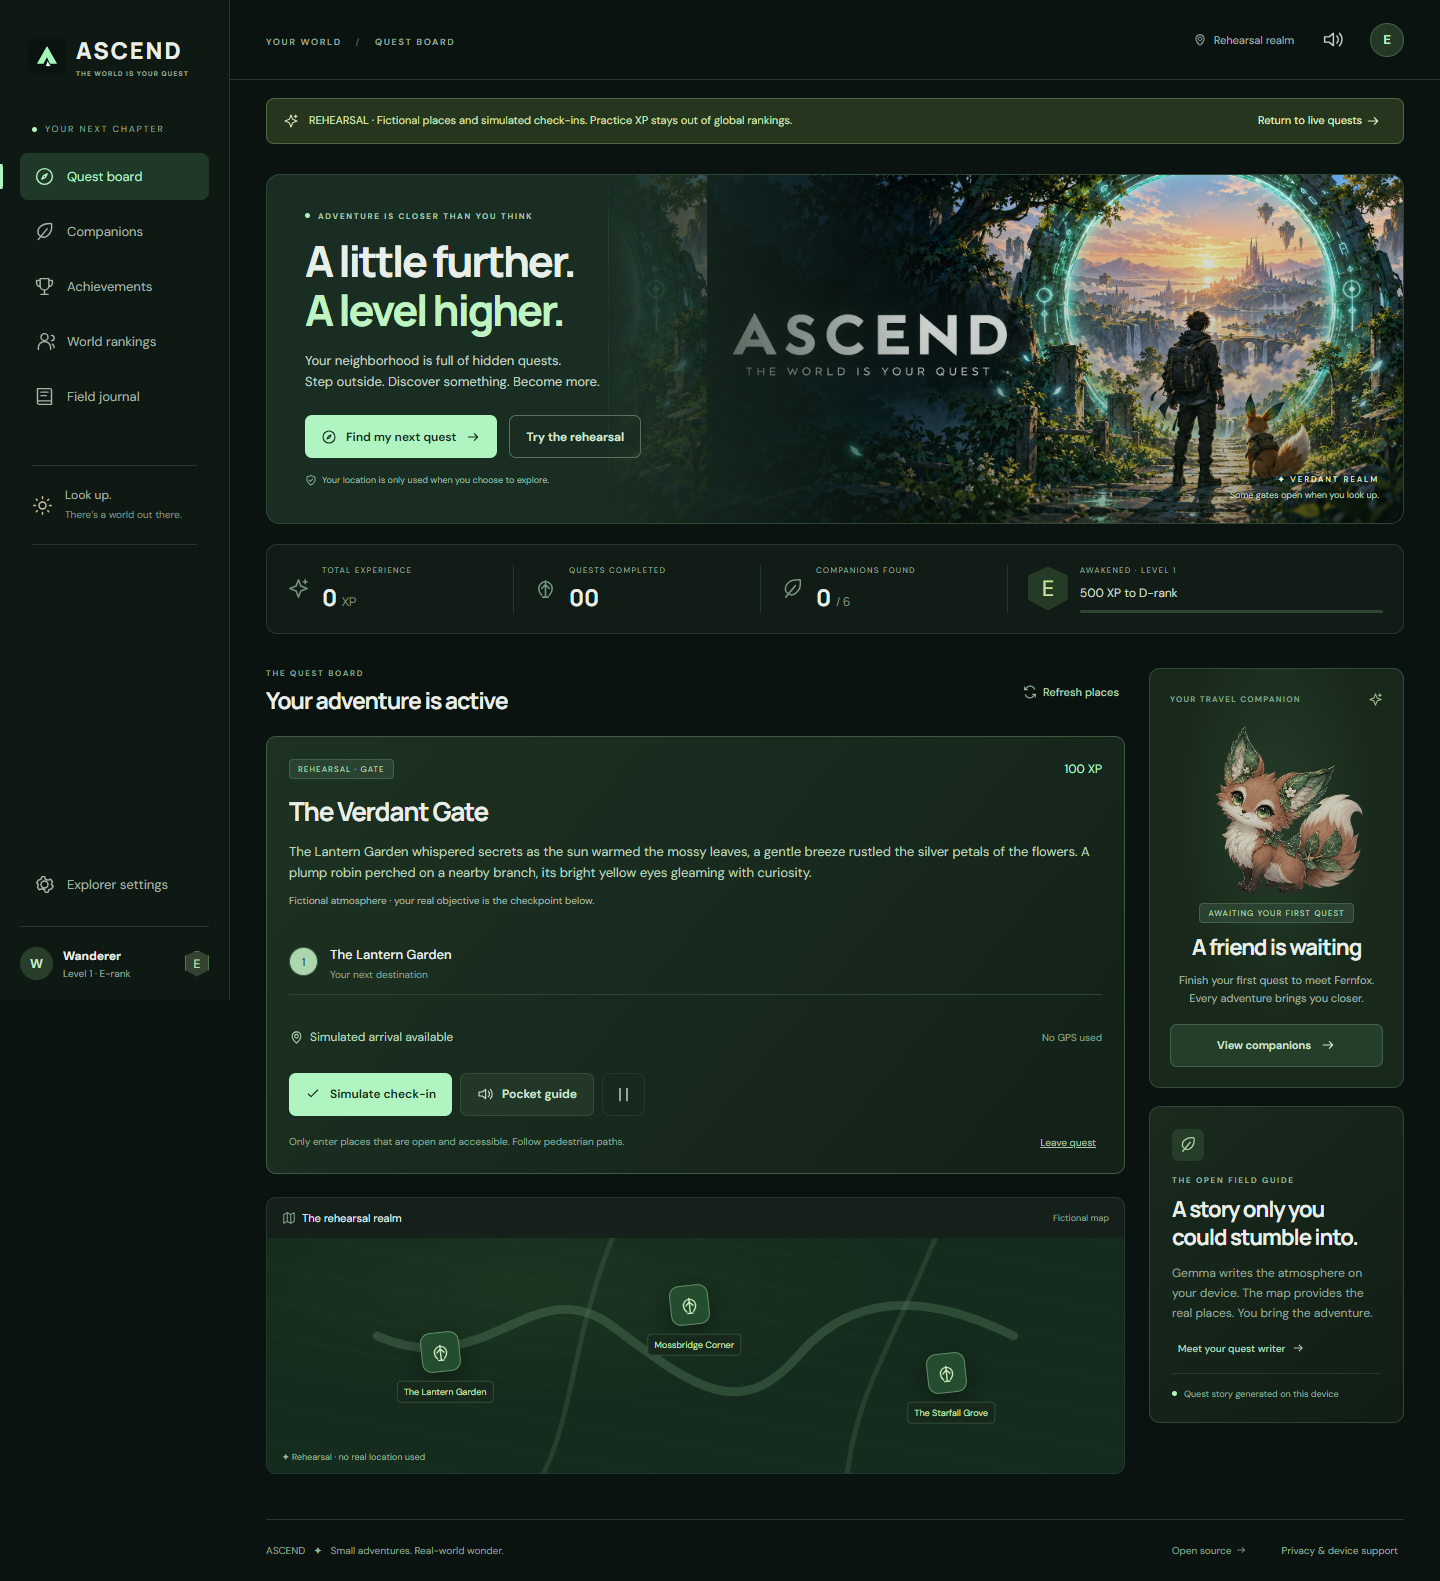
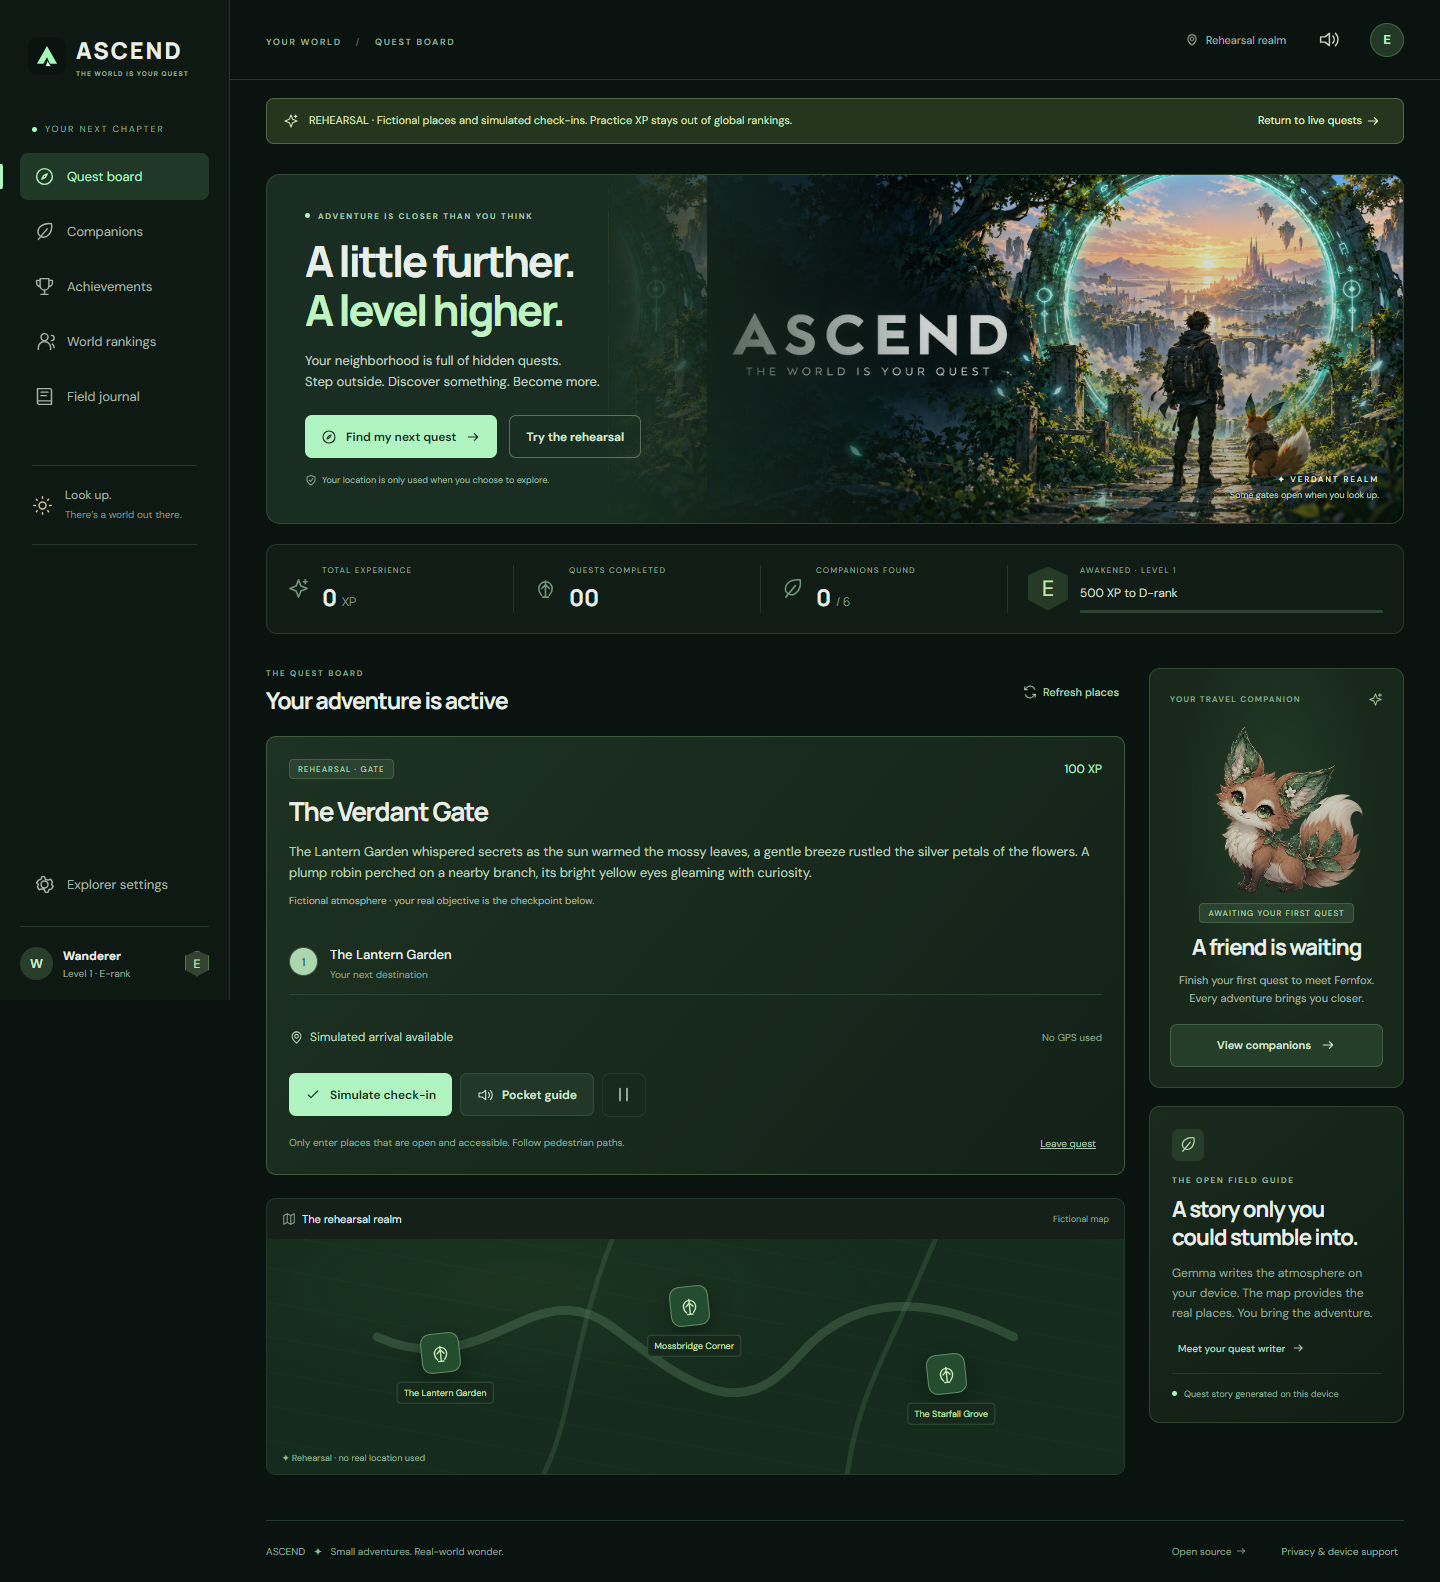
Verify GPU and CPU Gemma; recover map outages and camera capture

diff --git a/server/places.js b/server/places.js
@@ -16,6 +16,11 @@ export function createPlaceDiscovery({
       byteLimit: 50_000_000,
     },
     {
+      url: "https://maps.mail.ru/osm/tools/overpass/api/interpreter",
+      dailyLimit: 500,
+      byteLimit: 25_000_000,
+    },
+    {
       url: "https://overpass-api.de/api/interpreter",
       dailyLimit: 100,
       byteLimit: 10_000_000,
@@ -29,7 +34,7 @@ export function createPlaceDiscovery({
   }));
   let queue = Promise.resolve();
   async function lookup(origin, radius, key) {
-    const query = `[out:json][timeout:18];(nwr(around:${Math.ceil(radius) + 90},${origin.lat.toFixed(3)},${origin.lon.toFixed(3)})[leisure~"^(park|garden|recreation_ground)$"];nwr(around:${Math.ceil(radius) + 90},${origin.lat.toFixed(3)},${origin.lon.toFixed(3)})[tourism~"^(artwork|viewpoint)$"];node(around:${Math.ceil(radius) + 90},${origin.lat.toFixed(3)},${origin.lon.toFixed(3)})[natural=tree][name];node(around:${Math.ceil(radius) + 90},${origin.lat.toFixed(3)},${origin.lon.toFixed(3)})[amenity=fountain];);out tags center geom;`;
+    const query = `[out:json][timeout:25];(nwr(around:${Math.ceil(radius) + 90},${origin.lat.toFixed(3)},${origin.lon.toFixed(3)})[leisure~"^(park|garden|recreation_ground)$"];nwr(around:${Math.ceil(radius) + 90},${origin.lat.toFixed(3)},${origin.lon.toFixed(3)})[tourism~"^(artwork|viewpoint)$"];node(around:${Math.ceil(radius) + 90},${origin.lat.toFixed(3)},${origin.lon.toFixed(3)})[natural=tree][name];node(around:${Math.ceil(radius) + 90},${origin.lat.toFixed(3)},${origin.lon.toFixed(3)})[amenity=fountain];);out tags center geom;`;
     for (const upstream of upstreams) {
       const day = new Date(now()).toISOString().slice(0, 10);
       if (upstream.day !== day)
@@ -42,42 +47,16 @@ export function createPlaceDiscovery({
         continue;
       upstream.requests++;
       try {
-        let response = await fetchImpl(
-          upstream.url + "?" + new URLSearchParams({ data: query }),
-          {
-            method: "GET",
-            headers: {
-              "User-Agent":
-                "ASCEND/1.0 (+https://github.com/faraz-shamim/ascend)",
-            },
-            signal: AbortSignal.timeout(22000),
+        const response = await fetchImpl(upstream.url, {
+          method: "POST",
+          body: new URLSearchParams({ data: query }),
+          headers: {
+            "User-Agent":
+              "ASCEND/1.0 (+https://github.com/faraz-shamim/ascend)",
+            "Content-Type": "application/x-www-form-urlencoded",
           },
-        );
-        if (
-          !response.ok &&
-          response.status >= 500 &&
-          upstream.requests < upstream.dailyLimit
-        ) {
-          console.warn(
-            "ASCEND map upstream",
-            JSON.stringify({
-              host: new URL(upstream.url).host,
-              method: "GET",
-              status: response.status,
-            }),
-          );
-          upstream.requests++;
-          response = await fetchImpl(upstream.url, {
-            method: "POST",
-            body: new URLSearchParams({ data: query }),
-            headers: {
-              "User-Agent":
-                "ASCEND/1.0 (+https://github.com/faraz-shamim/ascend)",
-              "Content-Type": "application/x-www-form-urlencoded",
-            },
-            signal: AbortSignal.timeout(22000),
-          });
-        }
+          signal: AbortSignal.timeout(35000),
+        });
         if (!response.ok) {
           console.warn(
             "ASCEND map upstream",

diff --git a/web/app.js b/web/app.js
@@ -238,7 +238,7 @@ function locationDialog() {
   }
   modal(
     "Find the world around you",
-    `<div class="dialog-symbol">${icon("compass")}</div><p>Share a fresh GPS fix to find mapped parks, gardens, landmarks, and other outdoor places within your chosen adventure time.</p><ul class="privacy-list"><li>Coordinates go to ASCEND’s server for a map lookup. The public Overpass provider receives an approximate search area.</li><li>Map tiles reveal the displayed area to OpenStreetMap.</li><li>Camera photos stay on your device. Public rankings never show locations.</li></ul><label class="dialog-label">Time available<select id="find-minutes">${[10, 20, 30, 45, 60].map((m) => `<option value="${m}" ${s.minutes === m ? "selected" : ""}>${m} minutes</option>`).join("")}</select></label><div class="dialog-actions"><button class="button primary" data-action="locate">${icon("pin")} Use my location</button><button class="button subtle" data-action="demo-modal">Try without permissions</button></div><p class="small-print">Mapped access is incomplete. Check opening hours and use public pedestrian paths. Distances are straight-line estimates.</p>`,
+    `<div class="dialog-symbol">${icon("compass")}</div><p>Share a fresh GPS fix to find mapped parks, gardens, landmarks, and other outdoor places within your chosen adventure time.</p><ul class="privacy-list"><li>Coordinates go to ASCEND’s server for a map lookup. Overpass providers receive an approximate search area: <a href="https://overpass.private.coffee/" target="_blank" rel="noopener">Private.coffee</a>, with <a href="https://maps.mail.ru/osm/tools/overpass/" target="_blank" rel="noopener">VK Maps</a> and <a href="https://overpass-api.de/" target="_blank" rel="noopener">FOSSGIS</a> as fallbacks.</li><li>Map tiles reveal the displayed area to OpenStreetMap.</li><li>Camera photos stay on your device. Public rankings never show locations.</li></ul><label class="dialog-label">Time available<select id="find-minutes">${[10, 20, 30, 45, 60].map((m) => `<option value="${m}" ${s.minutes === m ? "selected" : ""}>${m} minutes</option>`).join("")}</select></label><div class="dialog-actions"><button class="button primary" data-action="locate">${icon("pin")} Use my location</button><button class="button subtle" data-action="demo-modal">Try without permissions</button></div><p class="small-print">Mapped access is incomplete. Check opening hours and use public pedestrian paths. Distances are straight-line estimates.</p>`,
     "location",
   );
 }
@@ -534,8 +534,8 @@ async function startCamera() {
     cameraStream = await navigator.mediaDevices.getUserMedia({
       video: {
         facingMode: { ideal: "environment" },
-        width: { ideal: 1280 },
-        height: { ideal: 720 },
+        width: { min: 320, ideal: 1280 },
+        height: { min: 240, ideal: 720 },
       },
       audio: false,
     });
@@ -561,8 +561,13 @@ async function startCamera() {
 }
 async function capturePhoto() {
   const video = document.querySelector("#camera-preview");
-  if (!video?.videoWidth) {
-    toast("Wait for the camera preview to appear.");
+  if (
+    !video ||
+    video.readyState < 2 ||
+    video.videoWidth < 320 ||
+    video.videoHeight < 240
+  ) {
+    toast("Wait for a clear camera preview, then try capturing again.");
     return;
   }
   const canvas = document.createElement("canvas");

diff --git a/tests/places.test.js b/tests/places.test.js
@@ -58,3 +58,28 @@ test("All map services unavailable produces a playable-rehearsal fallback", asyn
     (error) => error.status === 503 && error.message.includes("rehearsal"),
   );
 });
+
+test("Primary outage switches to a public fallback with the same coarse search", async () => {
+  const requests = [];
+  const discover = createPlaceDiscovery({
+    fetchImpl: async (url, options) => {
+      requests.push({
+        url,
+        method: options.method,
+        body: options.body.toString(),
+      });
+      return url.includes("private.coffee")
+        ? new Response("", { status: 500 })
+        : ok();
+    },
+  });
+  const result = await discover(origin, 700);
+  assert.equal(result.places[0].source, "https://www.openstreetmap.org/node/1");
+  assert.equal(requests.length, 2);
+  assert.equal(new URL(requests[1].url).hostname, "maps.mail.ru");
+  assert.equal(requests[0].body, requests[1].body);
+  assert.ok(requests.every((r) => r.method === "POST" && !r.url.includes("?")));
+  const query = new URLSearchParams(requests[0].body).get("data");
+  assert.ok(query.includes("51.507,-0.128"));
+  assert.ok(!query.includes("51.5072"));
+});

diff --git a/server/app.js b/server/app.js
@@ -38,10 +38,8 @@ export async function createApp(options = {}) {
   app.use((req, res, next) => {
     res.setHeader("X-Content-Type-Options", "nosniff");
     res.setHeader("Referrer-Policy", "strict-origin-when-cross-origin");
-    res.setHeader(
-      "Permissions-Policy",
-      "geolocation=(self), camera=(self), microphone=(self)",
-    );
+    // Device APIs retain their default same-origin allowlists. The explicit header
+    // caused camera tracks to end in the release browser compatibility check.
     res.setHeader("X-Frame-Options", "SAMEORIGIN");
     if (req.path.startsWith("/api/"))
       res.setHeader("Cache-Control", "no-store");

diff --git a/docs/submission.md b/docs/submission.md
@@ -36,7 +36,7 @@ There is no streak punishment. A quiet walk tomorrow is still welcome if you mis
 
 ## Demo
 
-**[Play ASCEND]({{DEMO_URL}})**
+**[Play ASCEND](https://ascend-quests.onrender.com)**
 
 Start with **Try the rehearsal** to explore all three quest types without GPS, camera permissions, or an account. Its places and arrivals are explicitly fictional, and its scores never enter the global leaderboard.
 
@@ -60,7 +60,7 @@ The code is MIT-licensed. The generated art has its own attribution instructions
 
 ### A story layer grounded in an actual map
 
-The map service uses Overpass to find eligible nearby places. Known private and indoor locations are filtered out. Access tags and OpenStreetMap source links remain visible because a mapped place is not proof that it is open or reachable by a pedestrian route.
+The map service uses Overpass to find eligible nearby places. Private.coffee is the primary provider; VK Maps and FOSSGIS supply bounded fallbacks when it is unavailable. Searches are cached and shared across concurrent explorers. Known private and indoor locations are filtered out. Access tags and OpenStreetMap source links remain visible because a mapped place is not proof that it is open or reachable by a pedestrian route.
 
 Gemma writes the story; a separate quest engine pins the destinations, objectives, and XP. The model cannot invent a destination or grant rewards. Long, code-like, or unsuitable narratives fall back to a clearly labelled curated briefing.
 
@@ -74,7 +74,11 @@ A genuine browser inference produced this line:
 
 > The Lantern Garden whispered secrets as the sun warmed the mossy leaves, a gentle breeze rustled the silver petals of the flowers.
 
-On the tested browser, generation took **3.45 seconds**. The first model download plus generation took **28.6 seconds**. Those are measurements from one machine, not a promise for every phone. The full prompt, output, revision, and timings are recorded in [the inference report](https://github.com/faraz-shamim/ascend/blob/main/docs/gemma-inference.json).
+On the tested browser, generation took **5.1 seconds**. The first model download plus generation took **98.5 seconds**. Those are measurements from one machine, not a promise for every phone. The full prompt, output, revision, and timings are recorded in [the inference report](https://github.com/faraz-shamim/ascend/blob/main/docs/gemma-inference.json).
+
+The CPU fallback was tested with WebGPU disabled: **33.1 seconds** for generation and **170.4 seconds** including the first download, on the same computer. Its [separate report](https://github.com/faraz-shamim/ascend/blob/main/docs/gemma-cpu-inference.json) records actual WASM inference.
+
+Large model downloads also exposed interrupted CDN transfers during testing. The loader now fetches pinned artifacts in verified 8 MiB ranges, retries interrupted chunks, and rejects mismatched revisions. This made both real GPU and CPU runs complete.
 
 ![A real local Gemma story for the explicitly fictional rehearsal destination](https://raw.githubusercontent.com/faraz-shamim/ascend/main/docs/ascend-gemma-small.png)
 
@@ -92,7 +96,7 @@ Render’s free service can take about a minute to wake, and its free Postgres e
 
 ### What I actually verified
 
-- **24 automated tests** cover auth, GPS validation, camera metadata, progression, cooldowns, duplicate rewards, map caching and backoff, and Postgres rollback and cleanup.
+- **29 automated tests** cover auth, GPS validation, camera metadata, progression, cooldowns, duplicate rewards, map caching and backoff, and Postgres rollback and cleanup.
 - **19 browser scenarios** cover the quest flows, camera capture, companions, trophies, rankings, session export/restore, journal deletion, and every screen at 390 px width.
 - A separate check returned **18 real mapped landmarks** near a public central London test coordinate.
 - Gemma’s inference ran for real in the browser; its measured output is linked above.

diff --git a/README.md b/README.md
@@ -62,15 +62,16 @@ node scripts/gemma-qa.mjs
 
 The browser QA script currently uses an installed Windows Chrome path. Set `ASCEND_BROWSER_PATH` to another installed Chromium executable when running elsewhere. The unit/API/Postgres tests and production build run in GitHub Actions on Linux.
 
-- 28 automated checks cover coordinate validation, camera metadata, grounded destinations, XP/progression, auth/privacy, concurrent duplicate claims, cooldowns, weekly scores, quest expiry, Postgres rollback, and cleanup.
+- 29 automated checks cover coordinate validation, camera metadata, grounded destinations, XP/progression, auth/privacy, concurrent duplicate claims, cooldowns, weekly scores, quest expiry, Postgres rollback, and cleanup.
 - 19 browser QA scenarios exercise the main UI and server flows with **simulated GPS and a synthetic camera feed**, including responsive screens and journal privacy. It is not evidence of an outdoor visit.
-- Genuine local Gemma inference is recorded in [docs/gemma-inference.json](docs/gemma-inference.json). The compact model produced a story in about 3.45 seconds on the test browser's GPU; the first download and generation took about 28.6 seconds. This is one device measurement, not a universal performance guarantee.
-- Browser speech capability detection, button fallback, and voice-command actions using a synthesized transcript were tested. The headless browser had no installed local voice, so audible playback and live microphone transcription require device testing.
+- Genuine local Gemma inference is recorded in [docs/gemma-inference.json](docs/gemma-inference.json). The compact model produced a story in about 5.1 seconds on the test browser's GPU; the first download and generation took about 98.5 seconds. This is one device measurement, not a universal performance guarantee.
+- CPU/WASM inference was also run with WebGPU disabled: about 33.1 seconds to generate, 170.4 seconds including the first download. See [docs/gemma-cpu-inference.json](docs/gemma-cpu-inference.json). Interrupted model downloads recover through verified 8 MiB ranges with bounded retries.
+- Browser speech capability detection, button fallback, and voice-command actions using a synthesized transcript were tested. Playback controls and button fallback were exercised; audible playback and live microphone transcription still require physical-device testing.
 - [docs/browser-qa.json](docs/browser-qa.json), [docs/map-service-check.json](docs/map-service-check.json), and screenshots document the checks.
 
 ## Privacy and limits
 
-Location is requested when the explorer asks for nearby quests. Coordinates are used by ASCEND for the public map lookup and check-in validation. Public Overpass providers (Private.coffee, with FOSSGIS Overpass as fallback) receive a search area rounded to approximately 100 m. OpenStreetMap receives tiles for the displayed area. Searches are cached for 15 minutes, duplicate requests are coalesced, and upstream calls are serialized and capped. No continuous movement trail is saved.
+Location is requested when the explorer asks for nearby quests. Coordinates are used by ASCEND for the public map lookup and check-in validation. Public Overpass providers (Private.coffee, with VK Maps and FOSSGIS Overpass as fallbacks) receive a search area rounded to approximately 100 m. OpenStreetMap receives tiles for the displayed area. Searches are cached for 15 minutes, duplicate requests are coalesced, and upstream calls are serialized and capped. No continuous movement trail is saved.
 
 The server temporarily holds active-quest destinations. Expired destinations are cleared by a periodic cleanup, within 15 minutes after the four-hour quest expiry. Completed records contain hashes of place IDs and completion metadata for cooldowns. Public rankings expose only aliases and aggregate game statistics.
 
